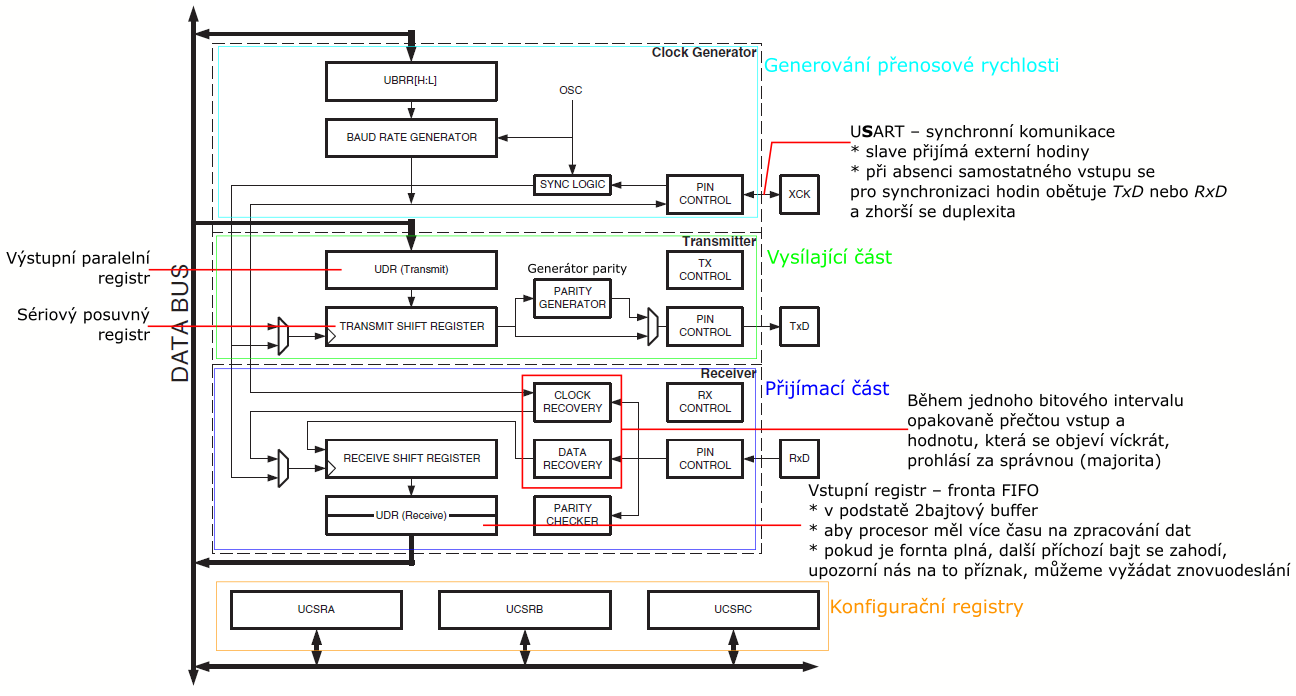
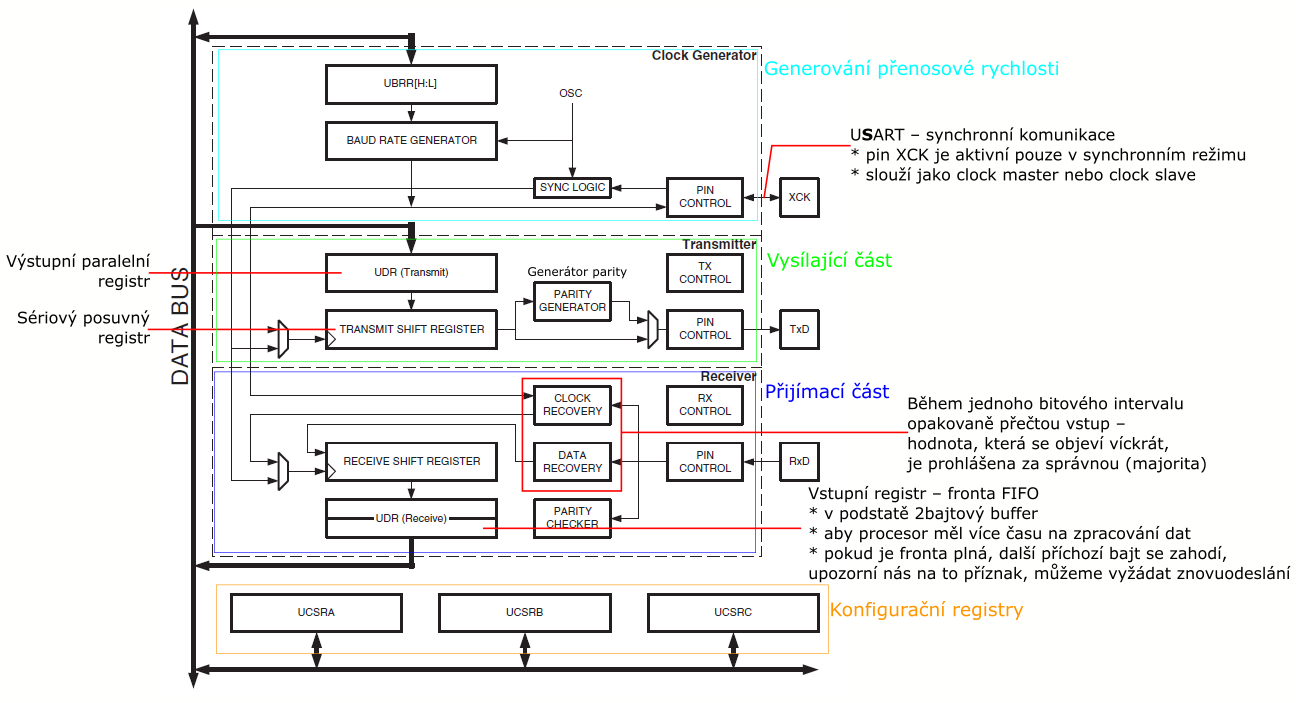
2925.0

diff --git a/HW_24_Sériová rozhraní mcu.MD b/HW_24_Sériová rozhraní mcu.MD
@@ -60,9 +60,9 @@
 
 SPI | Serial Peripheral Interface
 --: | :-:
-Vzdálenost | ?
-Rychlost | x Mbit/s
-Počet zařízení | ?
+Vzdálenost | 3 m
+Frekvence | CK/2 (ATmega64)
+Počet zařízení | Podle počtu vývodů na masteru
 Řízení | Singlemaster
 Adresace | HW
 Zabezpečení | —
@@ -77,7 +77,7 @@ Duplexita | Full duplex
   * V klidovém stavu jsou vodiče v úrovni H
   * Při přenosu jsou na SDA vysílány jednotlivé bity s tím, že logická hodnota SDA se může změnit, pouze pokud je SCL v úrovni L
   * Toto pravidlo je porušeno ve dvou případech: vysílání podmínek START a STOP – zahájení arbitrace a ukončení přenosu
-* Každá stanice si synchronizuje GHS měřením trvání úrovně H na CSL vnitřním časovačem
+* Každá stanice si vnitřním časovačem synchronizuje GHS měřením trvání úrovně H na CSL
   * To umožňuje některé ze stanic zpomalit přenos
 
 ![TWI0](./img/HW_24_02.png)
@@ -86,7 +86,7 @@ Duplexita | Full duplex
 * Poté jsou přenášena data, každý byte je následován jedním bitem ACK
   * Pokud vysílající stanice nedostane potvrzení příjmu, ukončí vysílání podmínkou STOP
 * Po ukončení přenosu je vyslána podmínka STOP
-* Vysilající stanice porovnává vysílané bity se skutečnou hodnotou SDA
+* Vysílající stanice porovnává vysílané bity se skutečnou hodnotou SDA
   * Pokud se liší, musí vysílání okamžitě ukončit
   * => Řešení arbitrace pomocí detekce kolize
 
@@ -105,16 +105,43 @@ Duplexita | Half duplex
 
 ## USART – Universal Synchronous and Asynchronous Receiver and Transmitter
 
-* Pomocí jednotky USART lze komunikovat protokoly RS-232, RS-422 a RS-485
 * ATmega64 má USART0 (PORTE) a USART1
 * Podporuje synchronní a asynchronní ("UART") režim
-* Převážně point-to-point mezi dvěma MCU
+* Point-to-point; převážně mezi dvěma MCU
 * Full-duplex
-* // TODO (?)
 
 ### USART na ATmega64
 
 ![USART](./img/HW_24_01.png)
+
+* Horní část _Clock Generator_ obsahuje synchronizační logiku pro externí vstupní pulz (clock slave) a _Baud Rate Generator_ dělící frekvenci mikrokontroléru na frekvenci vhodnou pro USART
+* Čtyři režimy, nastavení v konfiguračních registrech
+  1. Normální asynchronní
+  2. Asynchronní s dvojnásobnou rychlostí
+  3. Synchronní – master
+  4. Synchronní – slave
+* Asynchronní režim s dvojnásobnou rychlostí:
+  * Frekvence asynchronní komunikace je 2x rychlejší (_Baud Rate Generator_ dělen 8 místo 16)
+  * V _Receiveru_ stihnou _Clock Recovery_ a _Data Recovery_ přečíst hodnotu 2x méně (8x místo 16x)
+* Synchronní režim:
+  * Pin _XCK_ slouží jako clock master nebo clock slave, v asynchronním režimu se nepoužívá
+  * U zařízení bez speciálního pinu pro hodiny se pro synchronní USART komunikaci musí obětovat jeden z pinů transmitter/receiver, tím se zhorší duplexita
+* USART podporuje všech třicet kombinací formátu rámce:
+  * 1 startovní bit
+  * 5/6/7/8/9 datových bitů – začíná se od nejméně významného bitu
+  * Žádný/lichý/sudý paritní bit
+  * 1/2 stop bity
+* Formát rámce také nastaven v konfiguračních registrech (nepřenastavovat během komunikace)
+
+USART | Universal Synchronous and Asynchronous Receiver and Transmitter
+--: | :-:
+Vzdálenost | Klidně i stovky metrů (převod na RSxxx, kvalita kabelu, počet baudů)
+Frekvence | Uvedena v baudech (až megabaudech; bit/s), ostatní rychlosti odvozeny dělením; v praxi desítky/stovky kbit/s
+Počet zařízení | 2
+Řízení | Point-to-Point
+Adresace | —
+Zabezpečení | —
+Duplexita | Full duplex
 
 ---
 ---

diff --git a/HW_19_Připojování externích periferií k mcu.MD b/HW_19_Připojování externích periferií k mcu.MD
@@ -121,4 +121,11 @@
 
 ## Zákmity a jejich odstranění
 
-// TODO nepovinné
+* Způsobeny mechanickými nedokonalostmi tlačítek
+* Změna stavu na opačnou hodnotu je doprovázena vícenásobnými přechody
+
+1. Schmittův klopný obvod + kapacitor
+2. RS klopný obvod
+3. Monostabilní klopný obvod (NE555)
+4. Softwarové řešení
+5. ...

diff --git a/README.MD b/README.MD
@@ -1,6 +1,6 @@
 # Už nikdy více 😫
 
-`[ HW ] [########.##############.######]`
+`[ HW ] [########.#####################]`
 
 `[ SW ] [#########################]`
 
